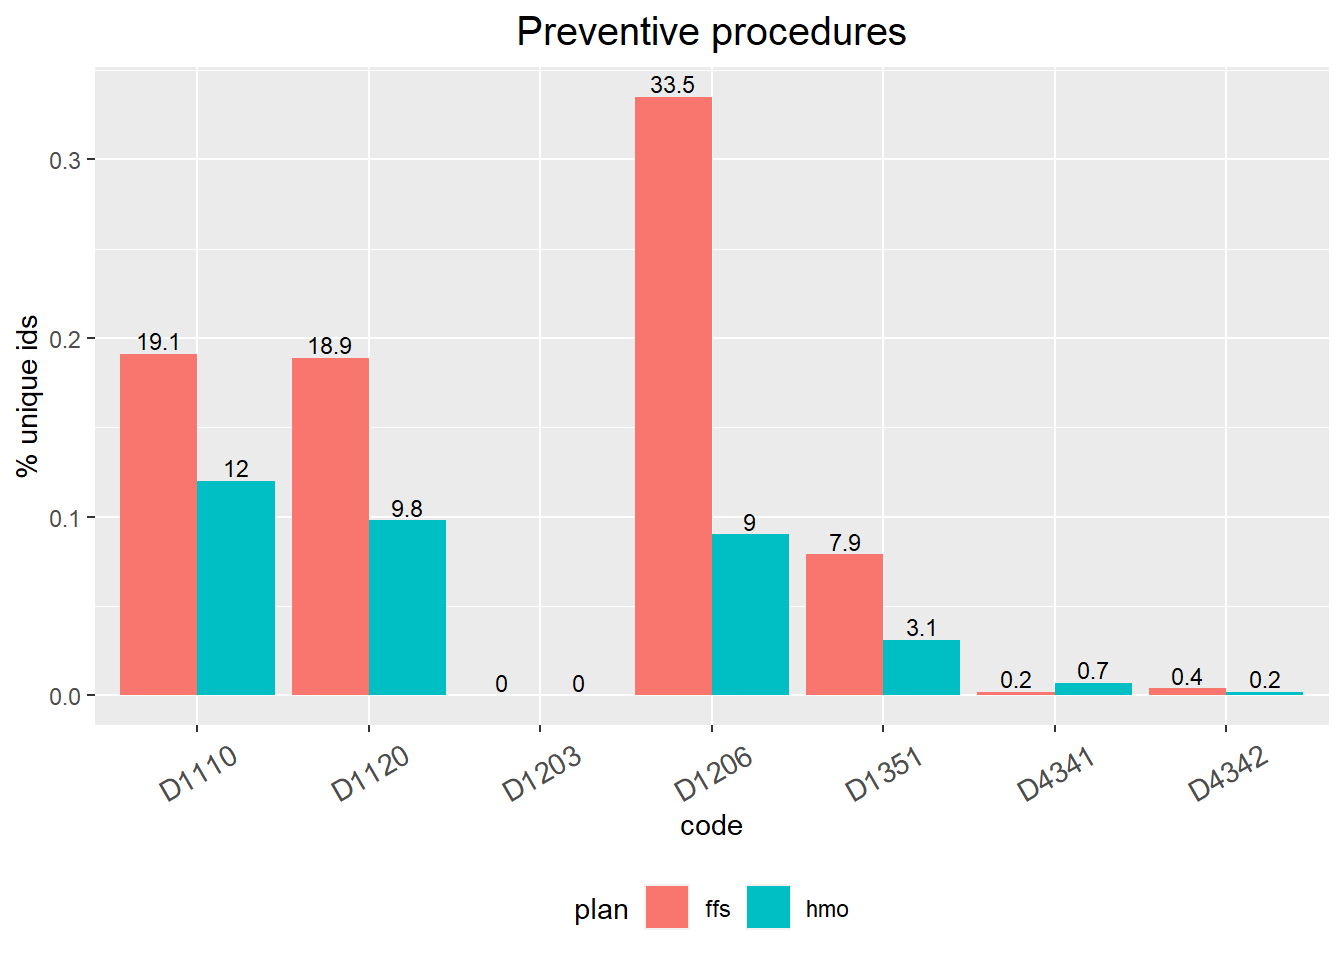
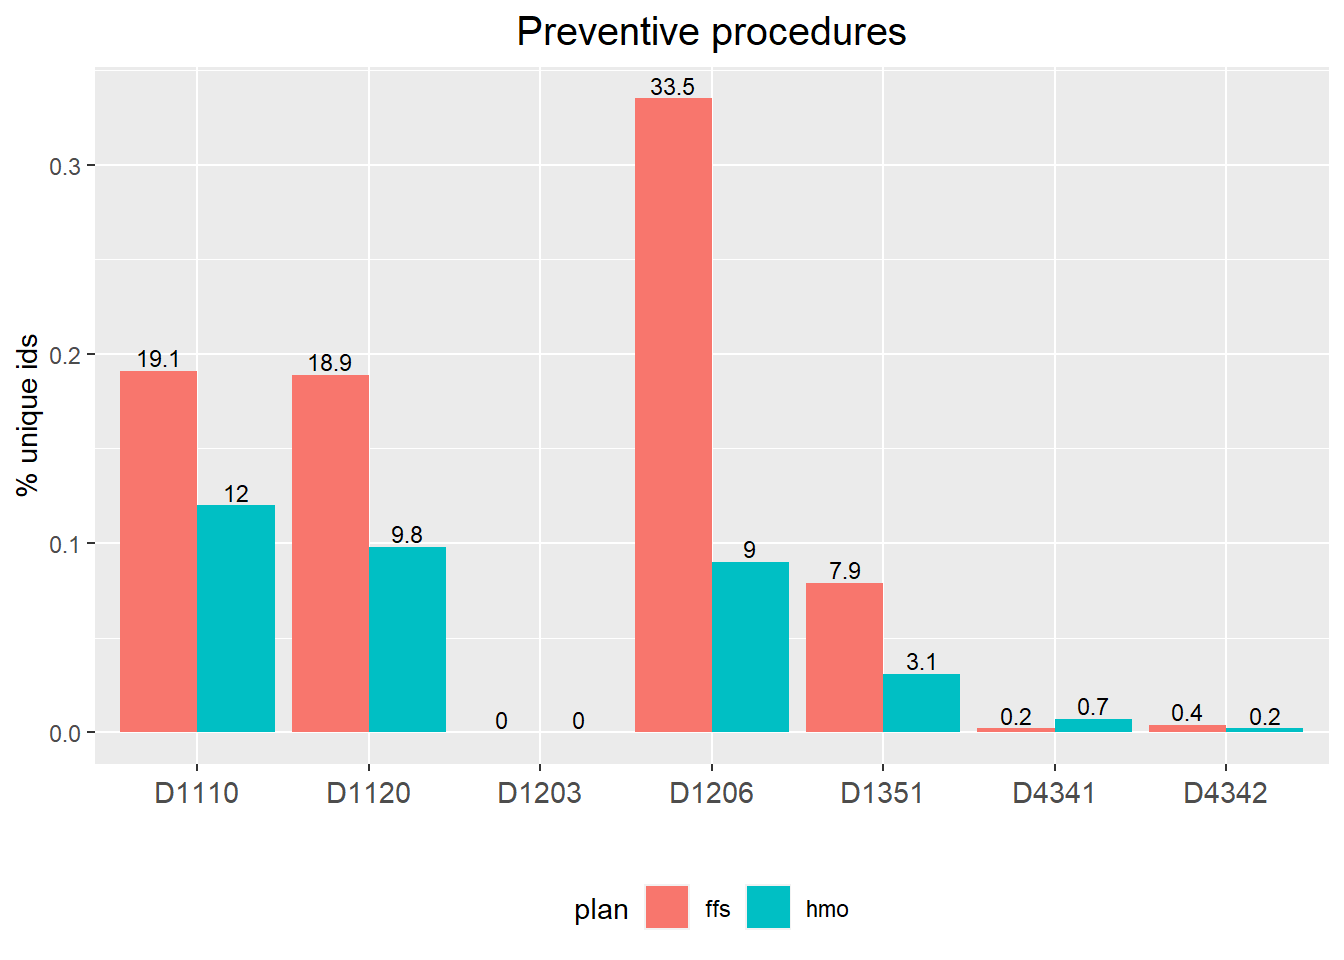
11/1/2024

diff --git a/docs/part3.html b/docs/part3.html
@@ -550,15 +550,15 @@ project makes it easier to run your code on other machines.</p>
 <div class="panel panel-default">
 <div class="panel-heading">
 <p class="panel-title">
-<a data-toggle="collapse" data-parent="#workflowr-checks" href="#strongRepositoryversionstrongahrefhttpsgithubcomhan16Oralpublichealthtreeb2d3108f818aa1d155a19fae289e4dda33764feftargetblankb2d3108a">
+<a data-toggle="collapse" data-parent="#workflowr-checks" href="#strongRepositoryversionstrongahrefhttpsgithubcomhan16Oralpublichealthtree2da4b5e4b8f3a76e1f629f2bcb849fd30c4a92abtargetblank2da4b5ea">
 <span class="glyphicon glyphicon-ok text-success"
 aria-hidden="true"></span> <strong>Repository version:</strong>
-<a href="https://github.com/han16/Oral-public-health/tree/b2d3108f818aa1d155a19fae289e4dda33764fef" target="_blank">b2d3108</a>
+<a href="https://github.com/han16/Oral-public-health/tree/2da4b5e4b8f3a76e1f629f2bcb849fd30c4a92ab" target="_blank">2da4b5e</a>
 </a>
 </p>
 </div>
 <div
[2 lines of base64/hex data omitted]
 class="panel-collapse collapse">
 <div class="panel-body">
 <p>
@@ -568,7 +568,7 @@ reproducibility.
 </p>
 <p>
 The results in this page were generated with repository version
-<a href="https://github.com/han16/Oral-public-health/tree/b2d3108f818aa1d155a19fae289e4dda33764fef" target="_blank">b2d3108</a>.
+<a href="https://github.com/han16/Oral-public-health/tree/2da4b5e4b8f3a76e1f629f2bcb849fd30c4a92ab" target="_blank">2da4b5e</a>.
 See the <em>Past versions</em> tab to see a history of the changes made
 to the R Markdown and HTML files.
 </p>
@@ -633,6 +633,40 @@ Message
 </tr>
 </thead>
 <tbody>
+<tr>
+<td>
+Rmd
+</td>
+<td>
+<a href="https://github.com/han16/Oral-public-health/blob/2da4b5e4b8f3a76e1f629f2bcb849fd30c4a92ab/analysis/part3.Rmd" target="_blank">2da4b5e</a>
+</td>
+<td>
+han
+</td>
+<td>
+2024-11-01
+</td>
+<td>
+11/1/2024
+</td>
+</tr>
+<tr>
+<td>
+html
+</td>
+<td>
+<a href="https://rawcdn.githack.com/han16/Oral-public-health/2da4b5e4b8f3a76e1f629f2bcb849fd30c4a92ab/docs/part3.html" target="_blank">2da4b5e</a>
+</td>
+<td>
+han
+</td>
+<td>
+2024-11-01
+</td>
+<td>
+11/1/2024
+</td>
+</tr>
 <tr>
 <td>
 Rmd
@@ -932,7 +966,7 @@ y=sapply(diagnostic_code,calculate_prop)
 ggplot(data.frame(prop=round(unlist(y),3), code=rep(diagnostic_code, each=2), plan=rep(c(&quot;hmo&quot;, &quot;ffs&quot;), length(diagnostic_code))), aes(x=code, y=prop,fill=plan)) +geom_bar(position = &quot;dodge&quot;, stat=&quot;identity&quot;)+
  # ylim(c(0, 0.7))+
   ylab(&quot;% unique ids&quot;)+
-  #xlab(&quot;number of visits in the year&quot;)+
+  xlab(&quot;&quot;)+
   theme(legend.position=&quot;bottom&quot;)+
   theme(axis.text.x = element_text(angle = 30, vjust = 0.5, size=11))+
   geom_text(aes(label=prop*100), position=position_dodge(width=0.9), vjust=-0.25, size=3)+  # add numbers over bars
@@ -997,13 +1031,50 @@ y=sapply(preventive_code,calculate_prop)
 ggplot(data.frame(prop=round(unlist(y),3), code=rep(preventive_code, each=2), plan=rep(c(&quot;hmo&quot;, &quot;ffs&quot;), length(preventive_code))), aes(x=code, y=prop,fill=plan)) +geom_bar(position = &quot;dodge&quot;, stat=&quot;identity&quot;)+
  # ylim(c(0, 0.7))+
   ylab(&quot;% unique ids&quot;)+
-  #xlab(&quot;number of visits in the year&quot;)+
+  xlab(&quot;&quot;)+
   theme(legend.position=&quot;bottom&quot;)+
-  theme(axis.text.x = element_text(angle = 30, vjust = 0.5, size=11))+
+  theme(axis.text.x = element_text(angle = 0, vjust = 0.5, size=11))+
   geom_text(aes(label=prop*100), position=position_dodge(width=0.9), vjust=-0.25, size=3)+  # add numbers over bars
   ggtitle(&quot;Preventive procedures&quot;)+
   theme(plot.title = element_text(hjust = 0.5, size=15))  #center the title</code></pre>
 <p><img src="figure/part3.Rmd/unnamed-chunk-7-1.png" width="672" style="display: block; margin: auto;" /></p>
+<p>
+<button type="button" class="btn btn-default btn-xs btn-workflowr btn-workflowr-fig" data-toggle="collapse" data-target="#fig-unnamed-chunk-7-1">
+Past versions of unnamed-chunk-7-1.png
+</button>
+</p>
+<div id="fig-unnamed-chunk-7-1" class="collapse">
+<div class="table-responsive">
+<table class="table table-condensed table-hover">
+<thead>
+<tr>
+<th>
+Version
+</th>
+<th>
+Author
+</th>
+<th>
+Date
+</th>
+</tr>
+</thead>
+<tbody>
+<tr>
+<td>
+<a href="https://github.com/han16/Oral-public-health/blob/2da4b5e4b8f3a76e1f629f2bcb849fd30c4a92ab/docs/figure/part3.Rmd/unnamed-chunk-7-1.png" target="_blank">2da4b5e</a>
+</td>
+<td>
+han
+</td>
+<td>
+2024-11-01
+</td>
+</tr>
+</tbody>
+</table>
+</div>
+</div>
 <pre class="r"><code>data.frame(prop=round(unlist(y),3), code=rep(preventive_code, each=2), plan=rep(c(&quot;hmo&quot;, &quot;ffs&quot;), length(preventive_code)))%&gt;%
 datatable(extensions = &#39;Buttons&#39;,
             options = list(dom = &#39;Blfrtip&#39;,
@@ -1022,13 +1093,50 @@ y=sapply(restorative_code,calculate_prop)
 ggplot(data.frame(prop=round(unlist(y),3), code=rep(restorative_code, each=2), plan=rep(c(&quot;hmo&quot;, &quot;ffs&quot;), length(restorative_code))), aes(x=code, y=prop,fill=plan)) +geom_bar(position = &quot;dodge&quot;, stat=&quot;identity&quot;)+
  # ylim(c(0, 0.7))+
   ylab(&quot;% unique ids&quot;)+
-  #xlab(&quot;number of visits in the year&quot;)+
+  xlab(&quot;&quot;)+
   theme(legend.position=&quot;bottom&quot;)+
-  theme(axis.text.x = element_text(angle = 30, vjust = 0.5, size=9))+
+  theme(axis.text.x = element_text(angle = 0, vjust = 0.5, size=9))+
   geom_text(aes(label=prop*100), position=position_dodge(width=0.9), vjust=-0.25, size=3)+  # add numbers over bars
   ggtitle(&quot;Simple restorative&quot;)+
   theme(plot.title = element_text(hjust = 0.5, size=15))  #center the title</code></pre>
 <p><img src="figure/part3.Rmd/unnamed-chunk-8-1.png" width="672" style="display: block; margin: auto;" /></p>
+<p>
+<button type="button" class="btn btn-default btn-xs btn-workflowr btn-workflowr-fig" data-toggle="collapse" data-target="#fig-unnamed-chunk-8-1">
+Past versions of unnamed-chunk-8-1.png
+</button>
+</p>
+<div id="fig-unnamed-chunk-8-1" class="collapse">
+<div class="table-responsive">
+<table class="table table-condensed table-hover">
+<thead>
+<tr>
+<th>
+Version
+</th>
+<th>
+Author
+</th>
+<th>
+Date
+</th>
+</tr>
+</thead>
+<tbody>
+<tr>
+<td>
+<a href="https://github.com/han16/Oral-public-health/blob/2da4b5e4b8f3a76e1f629f2bcb849fd30c4a92ab/docs/figure/part3.Rmd/unnamed-chunk-8-1.png" target="_blank">2da4b5e</a>
+</td>
+<td>
+han
+</td>
+<td>
+2024-11-01
+</td>
+</tr>
+</tbody>
+</table>
+</div>
+</div>
 <pre class="r"><code>data.frame(prop=round(unlist(y),3), code=rep(restorative_code, each=2), plan=rep(c(&quot;hmo&quot;, &quot;ffs&quot;), length(restorative_code)))%&gt;%
 datatable(extensions = &#39;Buttons&#39;,
             options = list(dom = &#39;Blfrtip&#39;,
